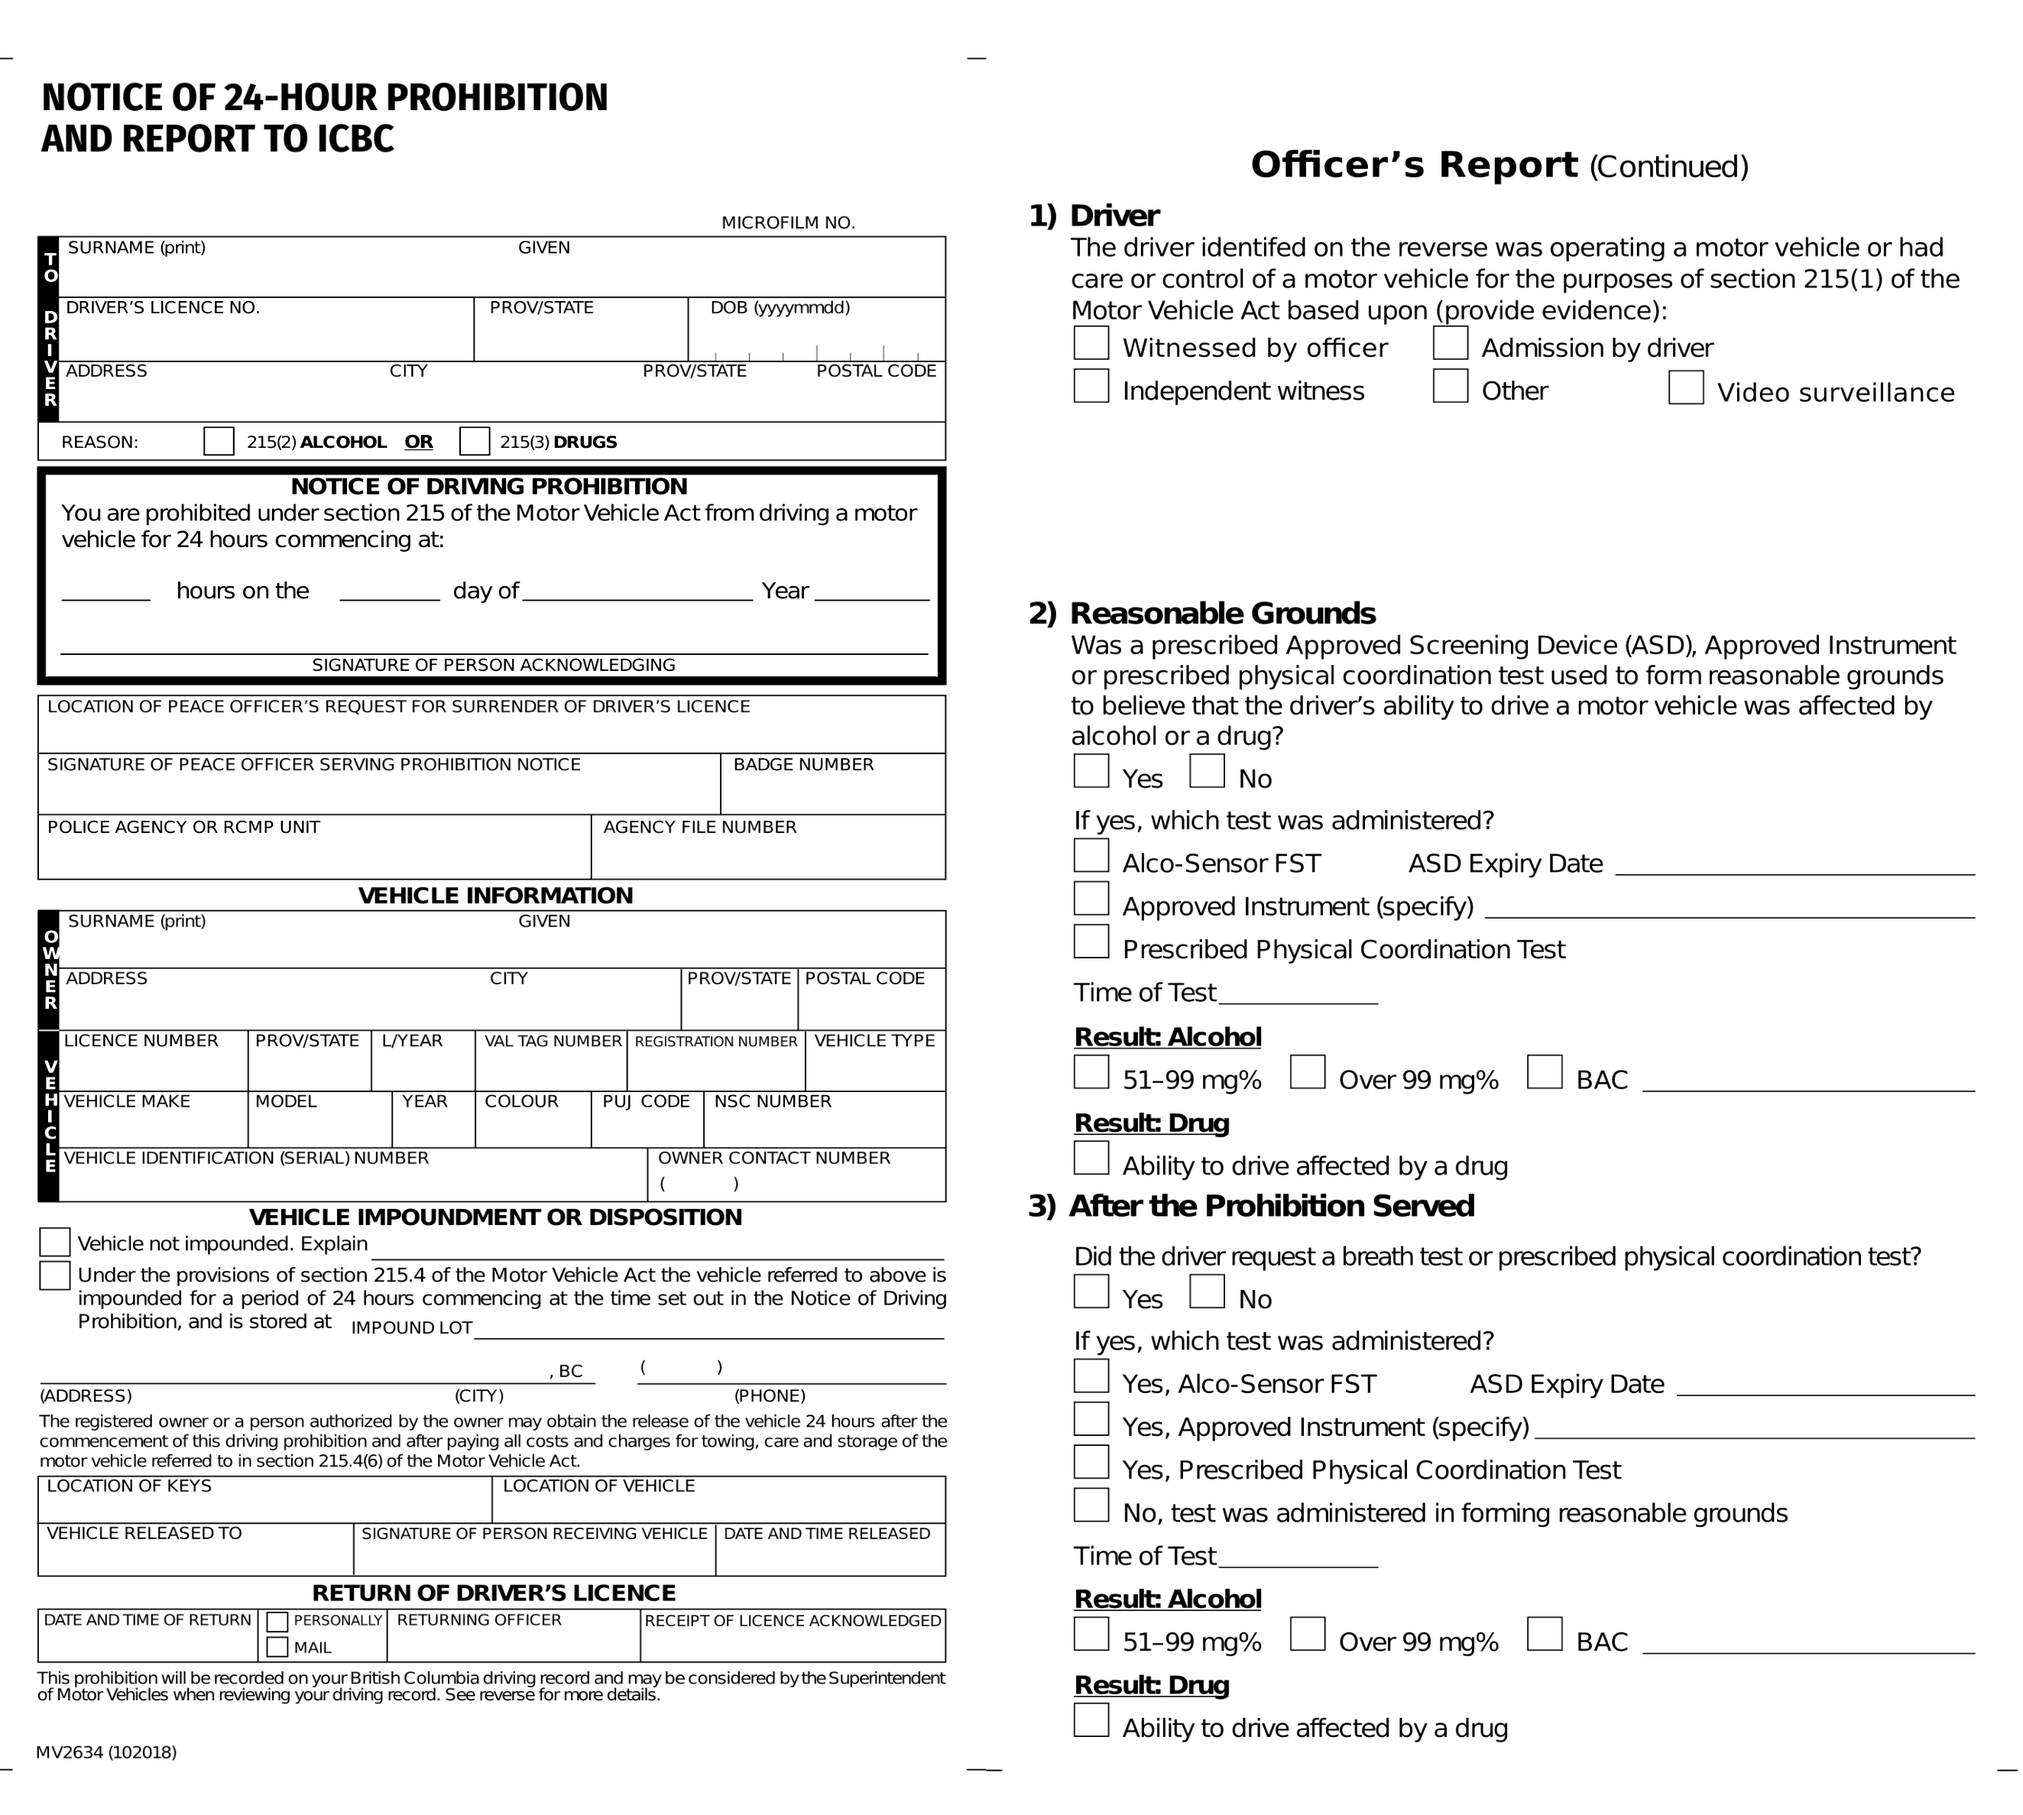
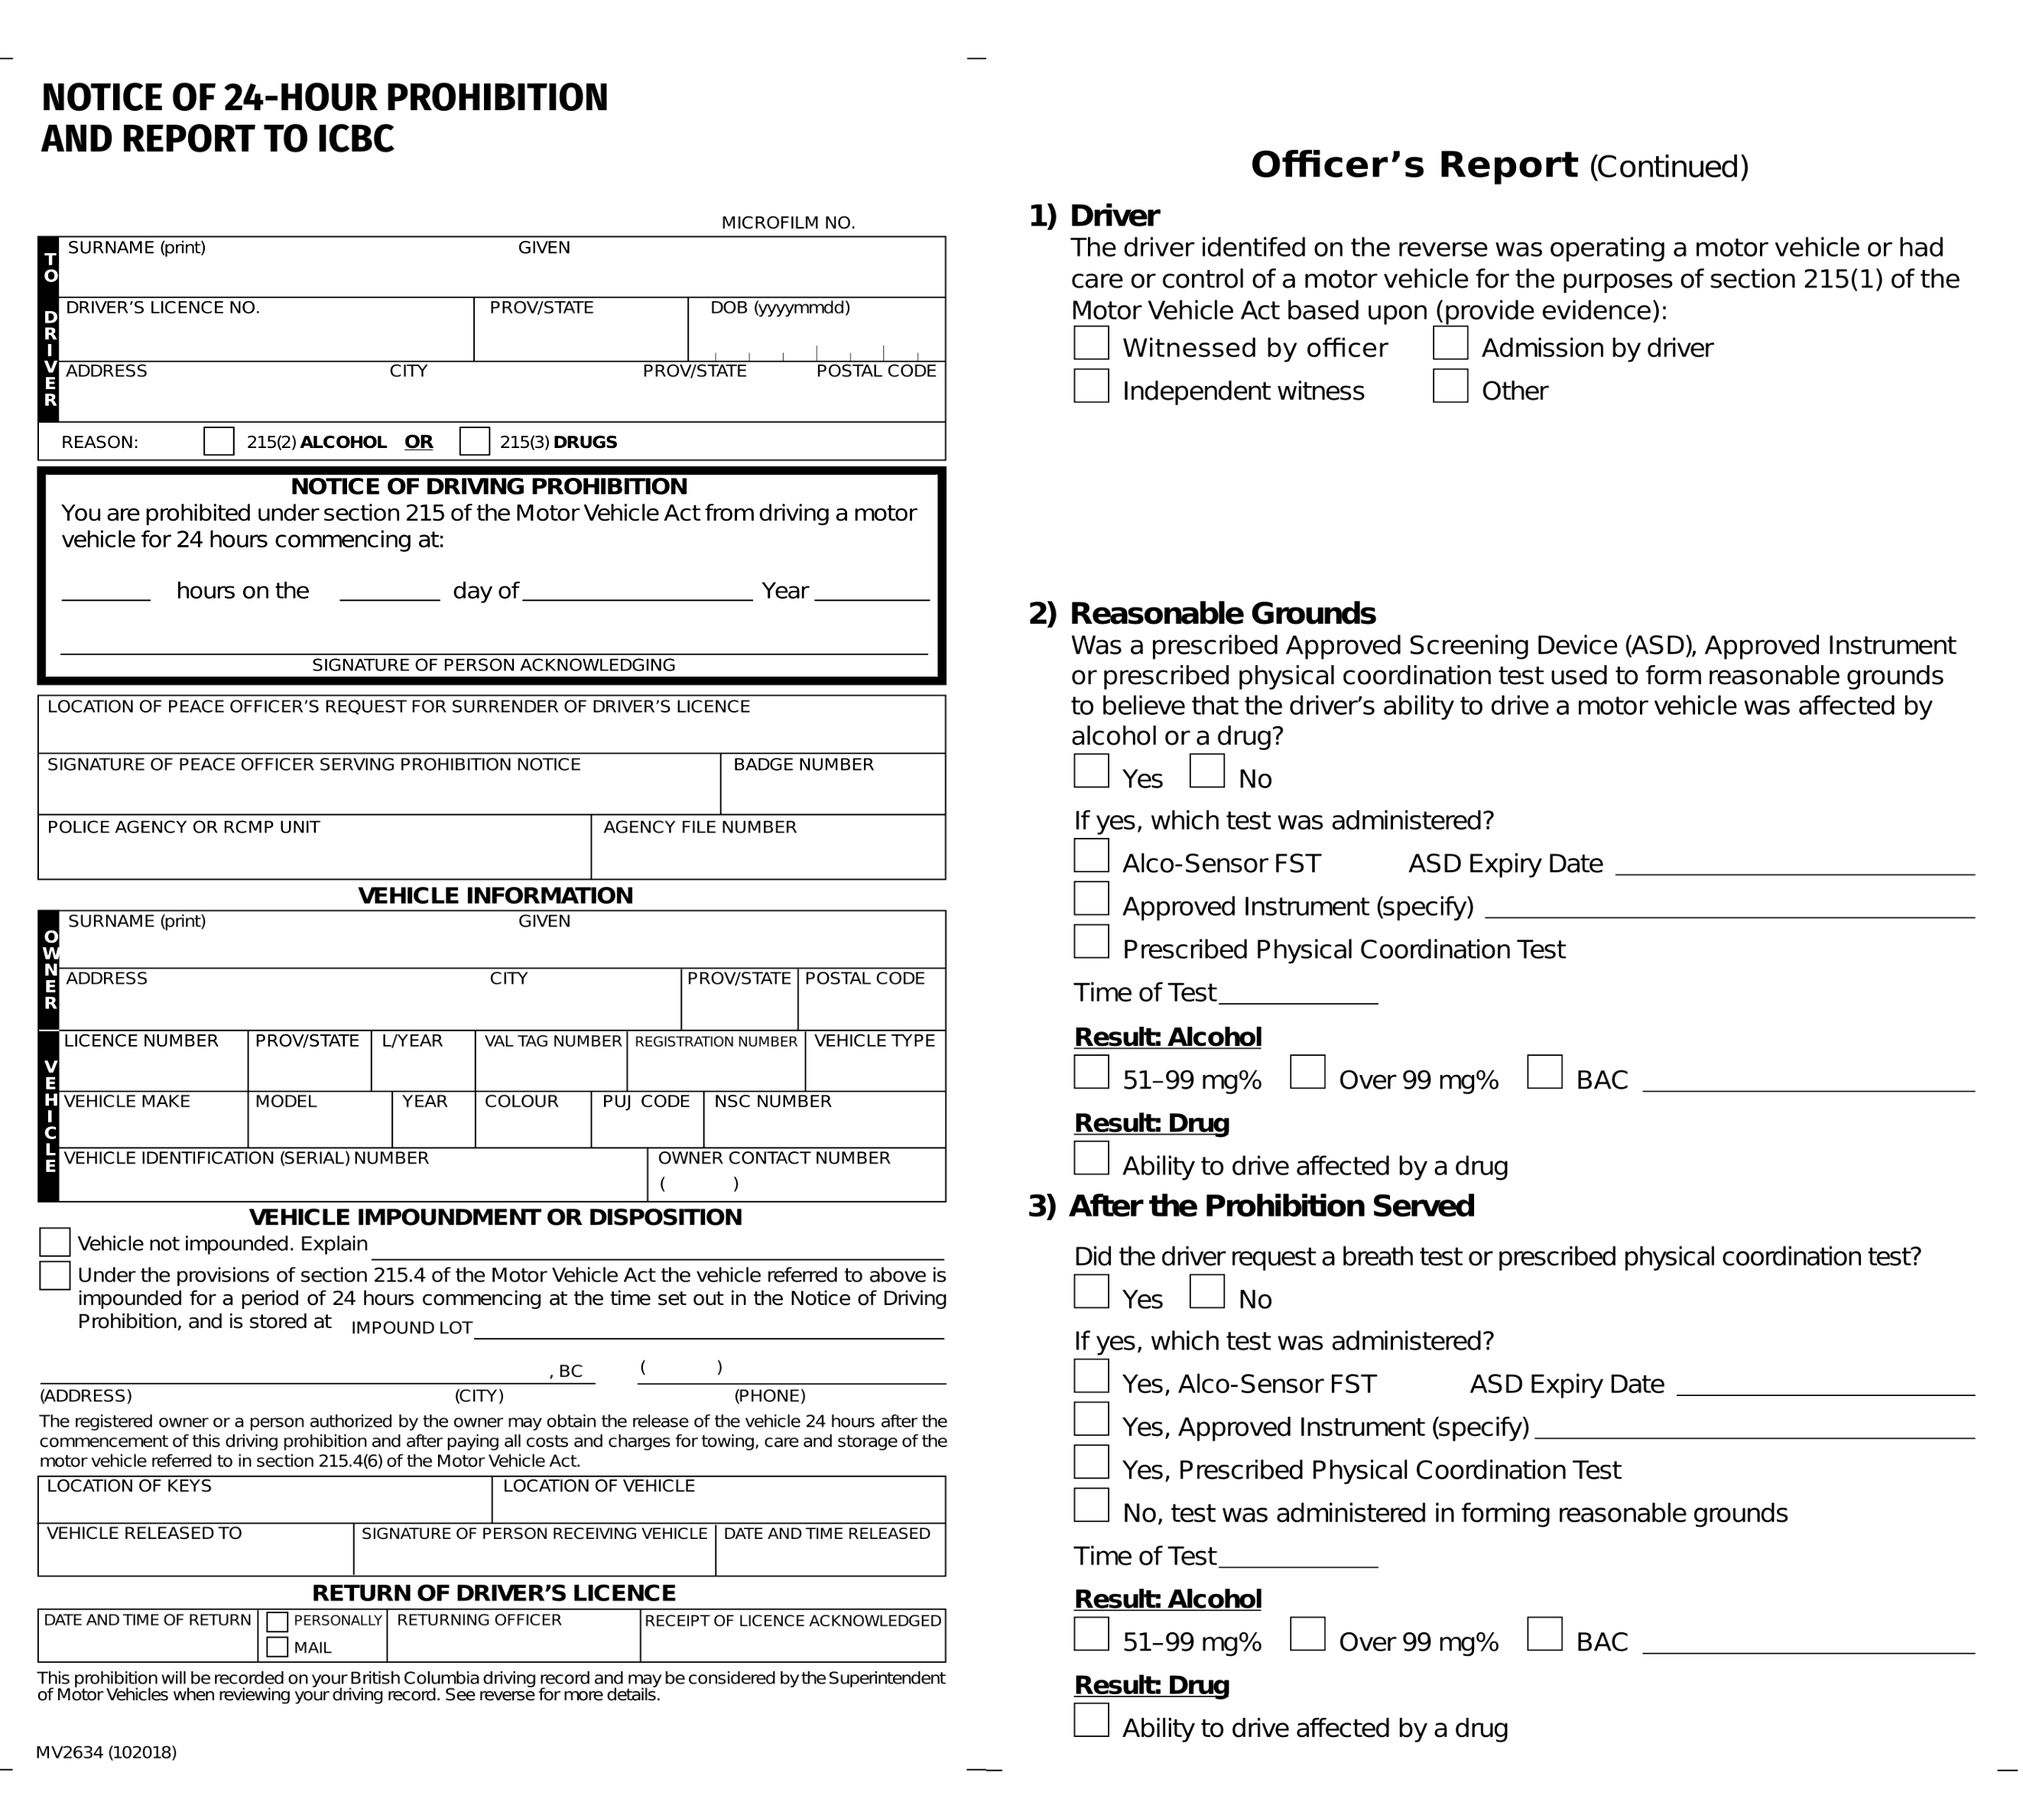
DF-1609 - remove surveillance check box

diff --git a/web_app/src/store/actions.js b/web_app/src/store/actions.js
@@ -328,15 +328,20 @@ export const actions = {
                 form_object, 'operating_grounds', "Independent witness")
             key_value_pairs['DRIVER_ADMISSION_BY_DRIVER'] = context.getters.getFormPrintCheckedValue(
                 form_object, 'operating_grounds', "Admission by driver")
-            key_value_pairs['VIDEO_SURVEILLANCE'] = context.getters.getFormPrintCheckedValue(
+
+            const video_surveillance = context.getters.getFormPrintCheckedValue(
                 form_object, 'operating_grounds', "Video surveillance")
 
             let operating_grounds_other = context.getters.getFormPrintCheckedValue(
                 form_object, 'operating_grounds', "Other")
             key_value_pairs['DRIVER_OTHER'] = operating_grounds_other
 
-            if (operating_grounds_other) {
-                key_value_pairs['DRIVER_ADDITIONAL_INFORMATION'] = context.getters.getFormPrintValue(
+            if (operating_grounds_other || video_surveillance) {
+                key_value_pairs['DRIVER_ADDITIONAL_INFORMATION'] = "Additional Information:"
+                if (video_surveillance) {
+                    key_value_pairs['DRIVER_ADDITIONAL_INFORMATION'] += " video surveillance. "
+                }
+                key_value_pairs['DRIVER_ADDITIONAL_INFORMATION'] += context.getters.getFormPrintValue(
                     form_object, 'operating_ground_other')
             } else {
                 key_value_pairs['DRIVER_ADDITIONAL_INFORMATION'] = ''
